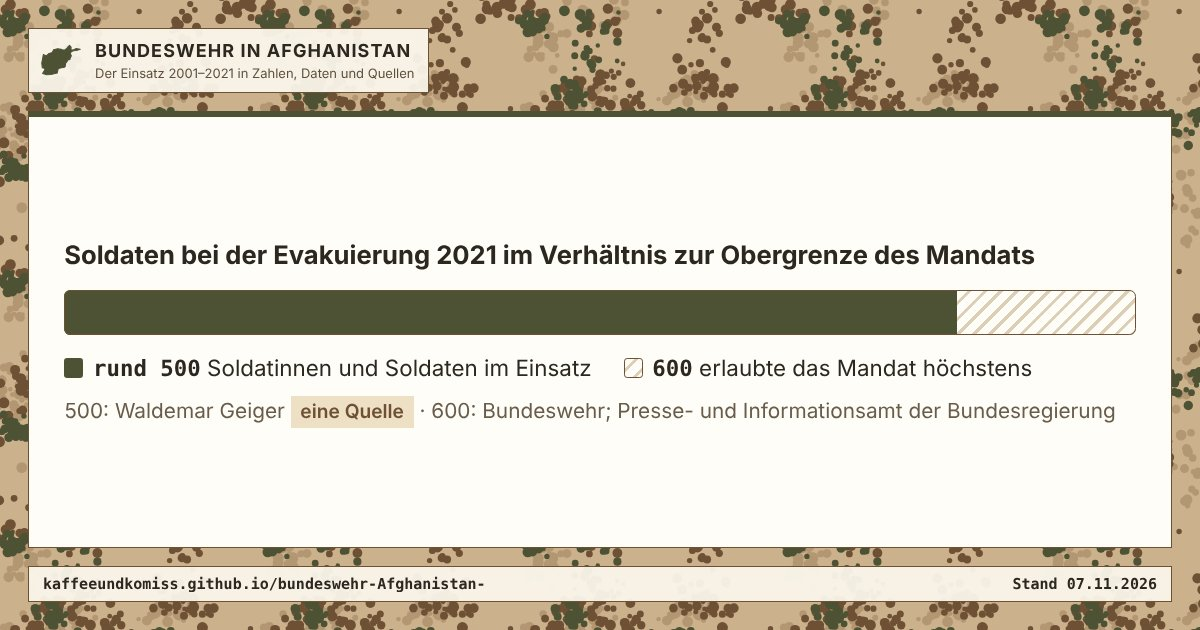
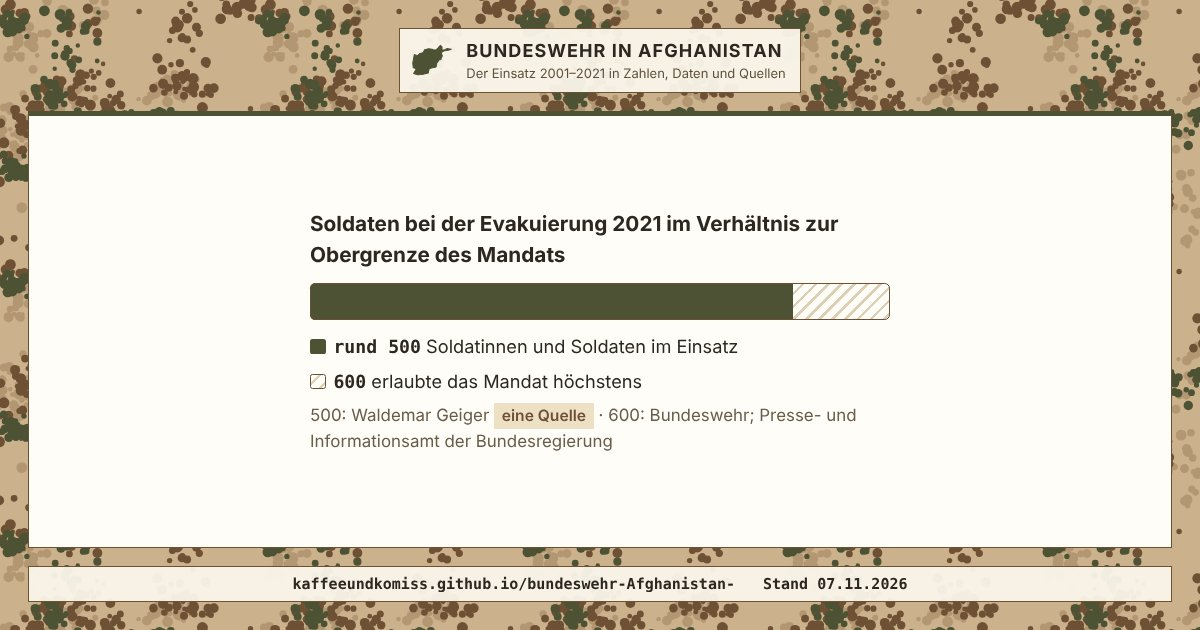
Vorschaubilder: Inhalt mittig für quadratischen Zuschnitt
Medium schneidet das Vorschaubild quadratisch aus der Mitte zu; der Kern
steht jetzt in einem 580 px breiten Mittelstreifen. Bilder neu erzeugt.

Claude-Session: https://claude.ai/code/session_01AuP7hGc6gwQu3udKULUi75

diff --git a/werkzeuge/teilen.js b/werkzeuge/teilen.js
@@ -19,14 +19,14 @@ const ZIEL = path.join(WURZEL, 'teilen');
 const BILDER = path.join(ZIEL, 'bilder');
 const SEITE = 'file://' + path.join(WURZEL, 'index.html');
 const FORMATE = [
-  { endung: '', breite: 1200, hoehe: 630, zoom: { grafik: 1.6, zahl: 1.5, ueberschrift: 1, start: 1 } },
+  { endung: '', breite: 1200, hoehe: 630, mitte: 580, zoom: { grafik: 1.3, zahl: 1.3, ueberschrift: 1, start: 1 } },
   { endung: '-hoch', breite: 1080, hoehe: 1350, zoom: { grafik: 2.7, zahl: 2.4, ueberschrift: 1.25, start: 1.25 } }
 ];
 
 const esc = (t) => String(t).replace(/&/g, '&amp;').replace(/"/g, '&quot;').replace(/</g, '&lt;').replace(/>/g, '&gt;');
 
 // Läuft im Browser: ersetzt die Seite durch das Teilbild eines Elements.
-function rendern({ id, art, zoom, adresse }) {
+function rendern({ id, art, zoom, adresse, mitte }) {
   const kurz = {};
   document.querySelectorAll('.quellen li[id^="q"]').forEach((li) => {
     kurz[li.id] = li.textContent.split(':')[0].trim();
@@ -78,6 +78,16 @@ function rendern({ id, art, zoom, adresse }) {
   fuss.children[1].textContent = stand;
 
   box.appendChild(kopf);
+  // Querformat: Kern mittig in einem Streifen von `mitte` Pixeln, weil manche Plattformen
+  // (z. B. Medium) das Vorschaubild quadratisch aus der Mitte zuschneiden.
+  if (mitte) {
+    box.classList.add('tb-quer');
+    const spalte = document.createElement('div');
+    spalte.className = 'tb-mitte';
+    spalte.style.width = (mitte / zoom) + 'px';
+    while (inhalt.firstChild) spalte.appendChild(inhalt.firstChild);
+    inhalt.appendChild(spalte);
+  }
   box.appendChild(inhalt);
   box.appendChild(fuss);
   const stil = document.createElement('style');
@@ -99,6 +109,13 @@ function rendern({ id, art, zoom, adresse }) {
     .tb-unter{margin-top:18px;font-size:24px;color:var(--mute)}
     .tb-start .tb-inhalt{padding:40px}
     .tb-start .tb-gross{font-size:72px}
+    .tb-mitte{margin:0 auto}
+    .tb-quer .tb-kopf,.tb-quer .tb-fuss{justify-content:center}
+    .tb-quer .tb-fuss{gap:28px}
+    .tb-quer.tb-ueberschrift .tb-mitte,.tb-quer.tb-start .tb-mitte,.tb-quer.tb-zahl .tb-mitte{text-align:center}
+    .tb-quer .tb-gross{border-left:0;padding-left:0;font-size:42px}
+    .tb-quer.tb-start .tb-gross{font-size:52px}
+    .tb-quer .tb-unter{font-size:22px}
   `;
   document.body.innerHTML = '';
   document.documentElement.setAttribute('data-theme', 'light');
@@ -160,7 +177,7 @@ function teilseite(e) {
     for (const f of FORMATE) {
       await p.setViewportSize({ width: f.breite, height: f.hoehe });
       await p.goto(SEITE);
-      await p.evaluate(rendern, { id: e.id, art: e.art, zoom: f.zoom[e.art], adresse: BASIS.replace(/^https:\/\//, '').replace(/\/$/, '') });
+      await p.evaluate(rendern, { id: e.id, art: e.art, zoom: f.zoom[e.art], mitte: f.mitte || 0, adresse: BASIS.replace(/^https:\/\//, '').replace(/\/$/, '') });
       await p.screenshot({ path: path.join(BILDER, e.id + f.endung + '.jpg'), type: 'jpeg', quality: 85 });
     }
     if (e.seite !== false) fs.writeFileSync(path.join(ZIEL, e.id + '.html'), teilseite(e));
